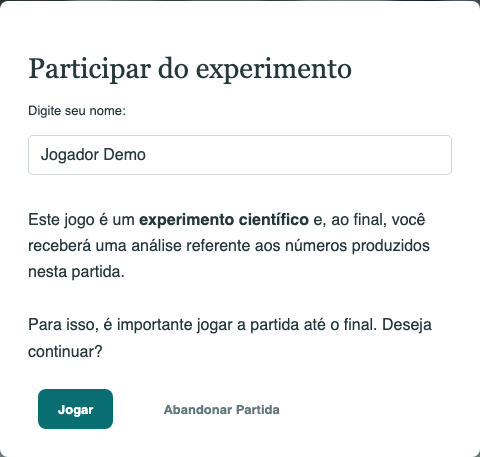
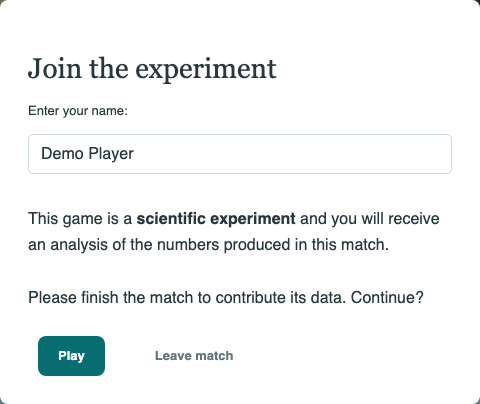
Update files

diff --git a/_posts/2025-04-11-Quantum-Battleship.md b/_posts/2025-04-11-Quantum-Battleship.md
@@ -31,7 +31,7 @@ categories: [software]
 	<a href="{{ page.url | relative_url }}#statistics">Analysis</a>
 	<a href="{{ page.url | relative_url }}#architecture">Architecture</a>
 </nav>
-<p>The screenshots below show the Portuguese interface. English and Chinese are available through the language selector. The gameplay, completed record and charts use a local demonstration with synthetic data, not a live hardware execution.</p>
+<p>The screenshots below show the English interface. Portuguese and Chinese are also available through the language selector. The gameplay, completed record and charts use a local demonstration with synthetic data, not a live hardware execution.</p>
 
 <section id="idea">
 	<h3>Why put quantum randomness inside a game?</h3>
